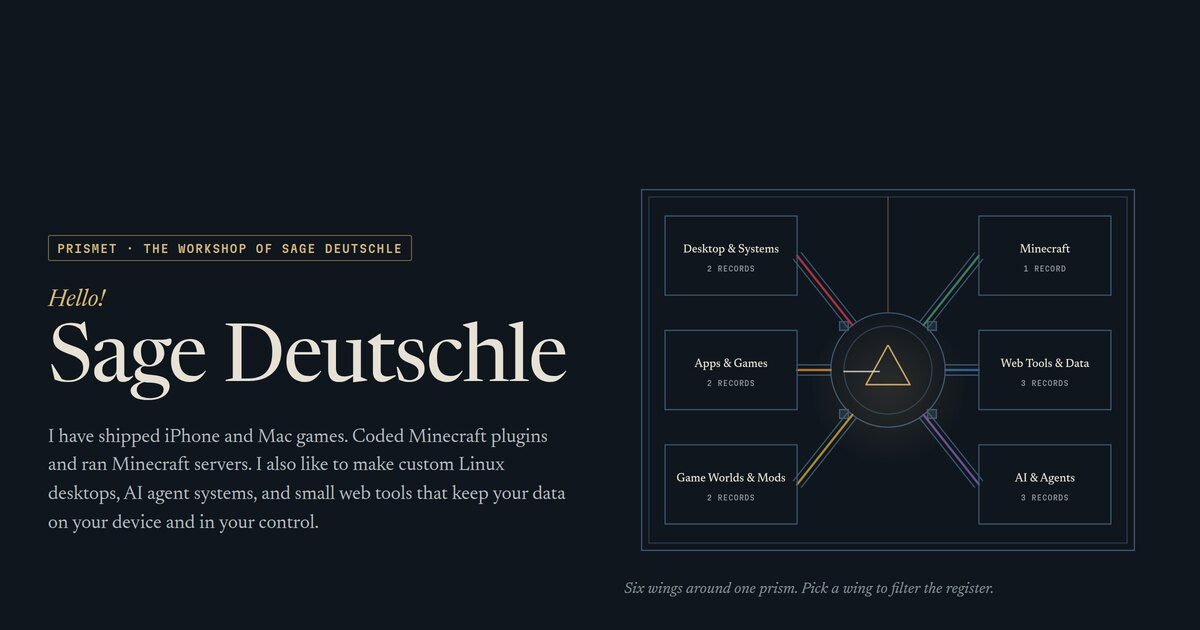
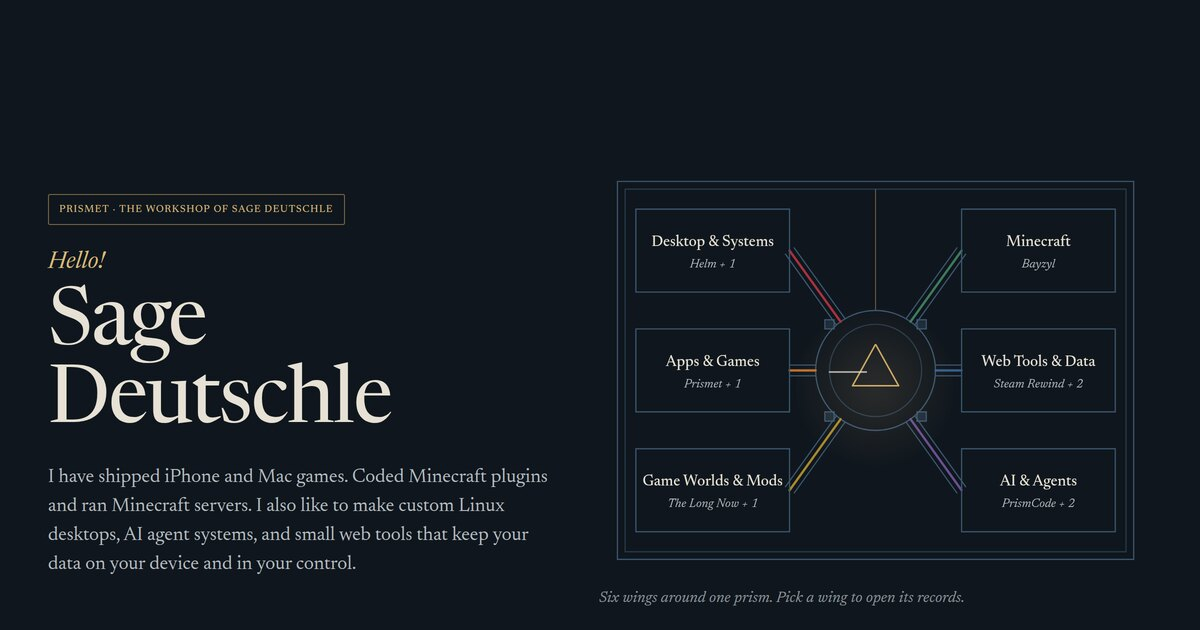
prismet-site: share image from the current entrance; plan labels at 20px
Claude-Session: https://claude.ai/code/session_01LNDcbCcy64DGsNuWVV1hR6

Changed region(s): [[0.4933, 0.2714, 0.9558, 0.9651], [0.0308, 0.4524, 0.4933, 0.9048], [0.0308, 0.3016, 0.3392, 0.4222]]

diff --git a/showcase/prismet-site/src/site.css b/showcase/prismet-site/src/site.css
@@ -170,7 +170,7 @@ section { scroll-margin-top: calc(var(--bar) + 12px); }
 .plan .beacon { stroke: var(--lantern); stroke-width: 1; opacity: .5; }
 .plan .inlay { stroke-width: 3; stroke-linecap: round; }
 .plan .room-fill { fill: var(--surface); opacity: 0; transition: opacity .25s; }
-.plan .room-name { font-size: 21px; fill: var(--ink); font-weight: 500; }
+.plan .room-name { font-size: 20px; fill: var(--ink); font-weight: 500; }
 .plan .room-lead { font-size: 16px; fill: var(--ink-2); font-style: italic; }
 .plan .wing { cursor: pointer; outline: none; }
 .plan .wing:hover .room-fill, .plan .wing:focus-visible .room-fill { opacity: 1; }
